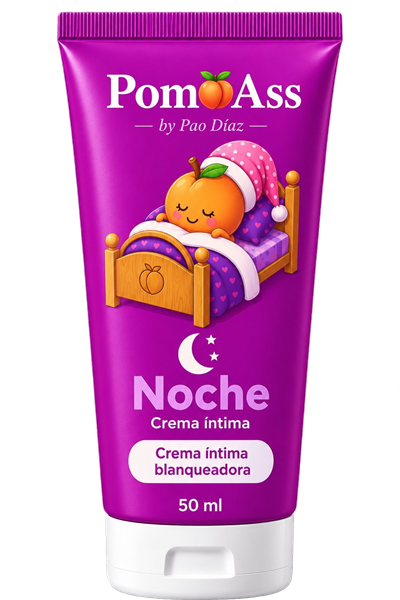
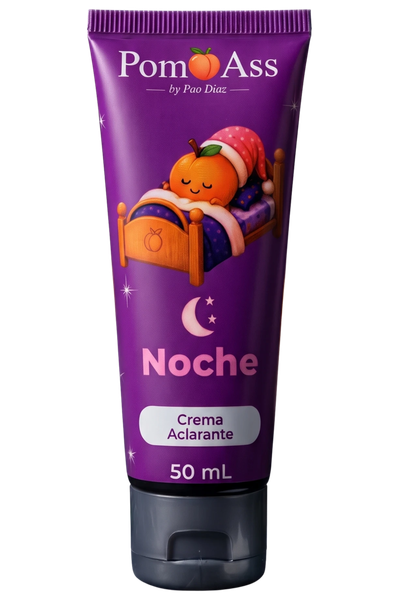
feat(landing): foto real del tarro de Noche
Reemplaza la ilustración por la foto que pasó Pao del producto terminado
(la crema aclarante, en la caja de "Noche" con la escena del durazno
dormido). Mismo tratamiento que los demás envases: recorte ajustado al
contenido real, encajado sin deformar en un lienzo de 400x600 con relleno
transparente, para que encaje en el mismo hueco que usaba la ilustración
sin tocar ningún componente.

El fondo ya venía recortado (alfa limpio en las esquinas, comprobado antes
de procesarlo) — no hizo falta quitarle fondo a mano.

Las cotas `sellado`/`tapa` del envase se remidieron a mano sobre la foto
nueva: la tapa de este tarro es gris oscuro, no blanca, así que la
detección automática (pensada para tapas claras) no habría servido.

Verificado en los tres sitios donde aparece — la escena 3D de la apertura,
la tarjeta de «La rutina» y la sección del combo — y con el flujo de
compra, sin errores de consola. 196 tests y el build pasan.

diff --git a/frontend/src/site.js b/frontend/src/site.js
@@ -190,7 +190,10 @@ export const PRODUCTOS = {
     icono: 'moon',
     color: '#9C1A9C',
     momento: 3,
-    envase: { imagen: '/images/tubo_noche.png', sellado: 36, tapa: 522 },
+    // Cotas remedidas a mano sobre la foto real del producto (Pao la pasó
+    // el 2 de noviembre): el sellado donde acaba el rizado de arriba, la
+    // tapa donde empieza el plástico oscuro de abajo.
+    envase: { imagen: '/images/tubo_noche.png', sellado: 34, tapa: 488 },
   },
 }
 
